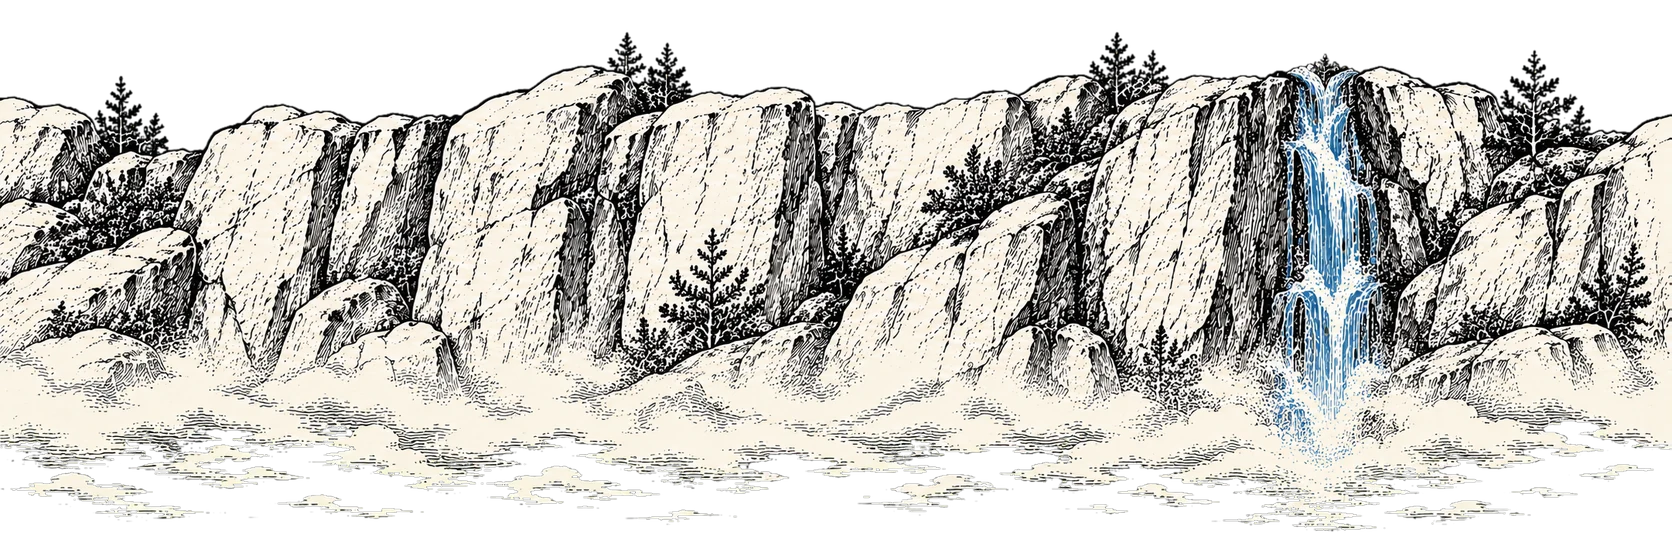
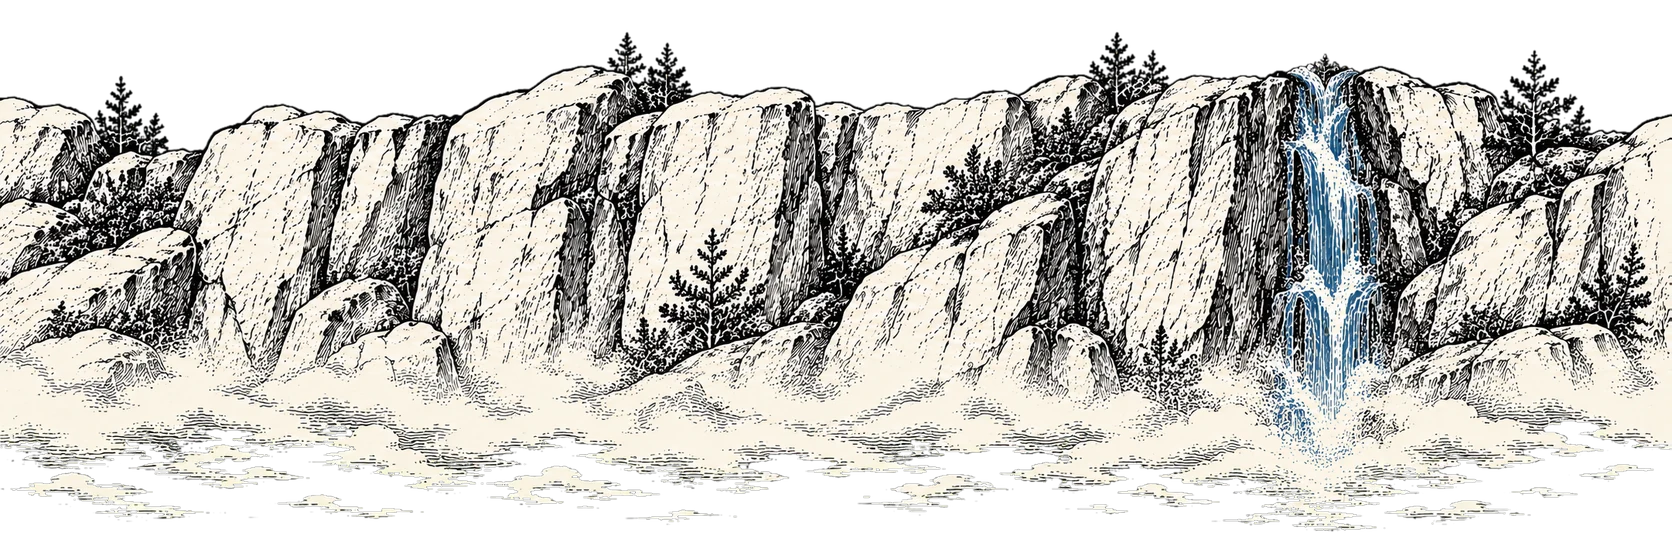
АЯРА: правки второй комиссии

Changed region(s): [[0.7464, 0.1221, 0.8397, 0.763]]

diff --git a/js/main.js b/js/main.js
@@ -37,7 +37,7 @@ window.GI_BRAND = {
 
   /* ---------- путь в гору: кадры друг над другом, камера поднимается по прокрутке ---------- */
   // мир в долях ширины кадра: x 0..1 слева направо, y снизу вверх. Кадры снизу вверх, на стыках облака.
-  var FH = 941 / 1672, GAP = 0.2;
+  var FH = 941 / 1672, GAP = 0.28;
   var FRAMES = [2, 4, 3, 5, 6].map(function (n, i) { return { n: n, y: i * (FH + GAP) }; });   // y — низ кадра
   var SKY = 0.75;                                       // чистое небо над источником — там финал
   var TH = FRAMES.length * FH + (FRAMES.length - 1) * GAP + SKY;
@@ -45,7 +45,8 @@ window.GI_BRAND = {
   // над источником — облако, за ним небо с финалом. par — насколько быстрее горы едет при подъёме (ближе к камере)
   var SEAMS = ["seam-1", "seam-2", "seam-3", "seam-4"];
   var CLOUDS = FRAMES.slice(1).map(function (f, i) {
-    return { y: f.y - GAP / 2, w: 1.12, h: 1.12 / 3 * 0.9, src: SEAMS[i], par: i === 1 ? 0.12 : 0.05, flow: i === 3 };
+    var h = 1.12 / 3 * 0.9;
+    return { y: f.y - GAP + h / 2 - 0.01, w: 1.12, h: h, src: SEAMS[i], par: i === 1 ? 0.12 : 0.05, flow: i === 3, dx: i === 3 ? -0.025 : 0 };   // водопад — под сток источника
   });
   CLOUDS.push({ y: FRAMES[FRAMES.length - 1].y + FH + 0.04, w: 1.24, h: 1.24 / 3 * 0.8, src: "cloud-2", par: 0.18, flip: true });   // вход в небо
   // остановки: f — кадр, x, y — точка кадра в центре экрана (доли, y сверху), h — сколько высоты мира в кадре;
@@ -62,13 +63,13 @@ window.GI_BRAND = {
   var KEYS_PHONE = [
     { f: 0, x: 0.55, y: 0.36, h: 0.62, k: 0 },
     { f: 0, x: 0.58, y: 0.42, h: 0.46, k: 1 },
-    { f: 1, x: 0.63, y: 0.45, h: 0.5, k: 2 },
+    { f: 1, x: 0.5, y: 0.45, h: 0.62, k: 2 },
     { f: 2, x: 0.6, y: 0.42, h: 0.58, k: 3 },
-    { f: 3, x: 0.55, y: 0.55, h: 0.52, k: 4 },
+    { f: 3, x: 0.35, y: 0.62, h: 0.6, k: 4 },
     { f: 4, x: 0.38, y: 0.6, h: 0.52, k: 5 },
     { sky: 1, k: 6 }
   ];
-  var STEP = 1.3;                                       // экранов прокрутки между остановками
+  var STEP = [1.05, 1.1, 1.25, 1.6, 1.15, 1.0];         // экранов прокрутки на участок между остановками (глоток — дольше)
   var U = 1000;                                         // px на единицу мира в DOM-слое (дальше масштабирует transform)
   var tower = document.querySelector(".tower");
   var stick = tower.querySelector(".tower__stick");
@@ -94,7 +95,7 @@ window.GI_BRAND = {
     var im = document.createElement("img");
     im.className = "tower__cloud";
     im.alt = ""; im.decoding = "async"; c.img = im; c.url = "assets/" + c.src + ".webp"; c.cy = c.y;
-    im.style.cssText = "left:" + (0.5 - c.w / 2) * U + "px;top:" + top(c.y + c.h / 2) + "px;width:" + c.w * U + "px;height:" + c.h * U + "px" + (c.flip ? ";transform:scaleX(-1)" : "");
+    im.style.cssText = "left:" + (0.5 + (c.dx || 0) - c.w / 2) * U + "px;top:" + top(c.y + c.h / 2) + "px;width:" + c.w * U + "px;height:" + c.h * U + "px" + (c.flip ? ";transform:scaleX(-1)" : "");
     worlds[0].appendChild(im);
   });
   for (var wi = 0; wi < worlds.length; wi++) { worlds[wi].style.width = U + "px"; worlds[wi].style.height = TH * U + "px"; }
@@ -105,7 +106,10 @@ window.GI_BRAND = {
   sb.style.setProperty("--bot-h", bp[2] * FH / TH);
 
   // картинка DOM-мира подгружается, когда камера в полутора кадрах от неё
-  function lazyImg(o) { if (!o.img.src && Math.abs(o.cy - cam.y) < 1.6) o.img.src = o.src || o.url; }
+  function lazyImg(o) {
+    if (o.img.src || window.GI_TOWER.ext || Math.abs(o.cy - cam.y) > 1.6) return;
+    o.img.src = o.url || o.src;
+  }
 
   // Катмулл — Ром по точкам с равным шагом: через каждую остановку камера проходит плавно, без излома
   function cr(a, b, c, d, t) {
@@ -122,9 +126,18 @@ window.GI_BRAND = {
     return { x: cr(a.x, b.x, c.x, d.x, t), y: cr(a.y, b.y, c.y, d.y, t), h: cr(a.h, b.h, c.h, d.h, t) };
   }
 
+  // доля прокрутки 0..1 -> место в «остановках» 0..n-1 с учётом разной длины участков (STEP)
+  function toStop(p, n) {
+    var st = STEP.slice(0, n - 1), total = st.reduce(function (a, b) { return a + b; }, 0), d = p * total;
+    for (var i = 0; i < st.length; i++) { if (d <= st[i]) return i + d / st[i]; d -= st[i]; }
+    return n - 1;
+  }
+
   function layout() {
     var n = (narrow.matches ? KEYS_PHONE : KEYS).length;
-    tower.style.height = "calc(100svh + " + ((n - 1) * STEP * 100) + "svh)";
+    var sum = STEP.slice(0, n - 1).reduce(function (a, b) { return a + b; }, 0) * 100;
+    tower.style.height = "calc(100svh + " + sum + "svh)";
+    tower.style.height = "calc(100dvh + " + sum + "dvh)";
     // врезки: картинка кадра крупно, нужная точка — в центре рамки
     insets.forEach(function (el) {
       var at = el.getAttribute("data-at").split(",").map(Number), i = el.firstChild;
@@ -142,7 +155,7 @@ window.GI_BRAND = {
     if (!W || !H) return cam;                           // ещё не разложено
     var r = tower.getBoundingClientRect();
     var p = clamp(-r.top / Math.max(1, r.height - H), 0, 1);
-    var f = p * (n - 1);
+    var f = toStop(p, n);
     var g = target(keys, f);
     var dt = Math.min(0.1, Math.max(0, (now - last) / 1000)); last = now;
     var k = reduce || !dt ? 1 : 1 - Math.exp(-dt * 7);  // инерция: камера догоняет прокрутку мягко
@@ -159,7 +172,7 @@ window.GI_BRAND = {
     for (var i = 0; i < worlds.length; i++) worlds[i].style.transform = tf;
     FRAMES.forEach(lazyImg); CLOUDS.forEach(lazyImg);
     // подписи и врезки: видны те, у чьей остановки сейчас камера
-    var near = Math.round(f), on = Math.abs(f - near) < 0.34 ? keys[near].k : -1;
+    var near = Math.round(f), on = Math.abs(f - near) < (keys[near].k === 6 ? 0.6 : 0.34) ? keys[near].k : -1;
     if (on !== shown) {
       shown = on;
       caps.forEach(function (c) {
@@ -230,5 +243,6 @@ window.GI_BRAND = {
   narrow.addEventListener ? narrow.addEventListener("change", layout) : narrow.addListener(layout);
   window.addEventListener("resize", layout);
   if (bar) window.addEventListener("scroll", topbar, { passive: true });
+  if (bar) document.addEventListener("focusin", function () { bar.classList.remove("is-hidden"); });
   requestAnimationFrame(loop);
 })();

diff --git a/css/style.css b/css/style.css
@@ -59,7 +59,8 @@ a{color:inherit}
 .hero.is-out{opacity:0;transform:translateY(-28px);pointer-events:none;visibility:hidden;transition:opacity .6s var(--ease),transform .8s var(--ease),visibility 0s .8s}
 .scroll-hint.is-out{opacity:0;pointer-events:none;visibility:hidden;transition:opacity .6s var(--ease),visibility 0s .6s}
 html:not(.js) .tower{height:auto}
-html:not(.js) .tower__stick{position:relative}
+html:not(.js) .tower__stick{position:relative;height:auto;overflow:visible}
+html:not(.js) .inset,html:not(.js) .tower__world,html:not(.js) .tower__live{display:none}
 
 /* врезка крупным планом: рамка тушью, выезжает у остановки и медленно наезжает */
 .inset{position:absolute;z-index:3;right:calc(var(--gut) + 8px);bottom:clamp(40px,9cqh,96px);width:clamp(180px,22cqw,340px);aspect-ratio:4/3;overflow:hidden;background:var(--paper);border:3px solid var(--ink);box-shadow:0 0 0 6px var(--paper),0 0 0 7.5px var(--ink);opacity:0;transform:translateY(30px) rotate(1.2deg);clip-path:inset(0 0 100% 0);transition:opacity .7s var(--ease),transform 1s var(--ease),clip-path 1s var(--ease)}
@@ -107,10 +108,10 @@ html:not(.js) .tower__stick{position:relative}
 /* на уступе сцены 6: координаты в долях кадра (подогнаны по scene-06.webp) */
 .scene__bottle{position:absolute;--bh:calc(var(--bot-h,.36) * 100%);height:calc(var(--bot-h,.36) * 100%);width:auto;aspect-ratio:9/14;left:calc(var(--bot-x,.33) * 100%);top:calc(var(--bot-y,.78) * 100%);transform:translate(-50%,-100%);container-type:inline-size}
 /* тень касания: плотная короткая тень ровно под дном */
-.scene__bottle::after{content:"";position:absolute;z-index:-1;left:6%;right:-4%;bottom:3.4%;height:3%;border-radius:50%;background:var(--ink);opacity:.32;filter:blur(2px)}
+.scene__bottle::after{content:"";position:absolute;z-index:-1;left:-4%;right:-22%;bottom:2.6%;height:4.2%;border-radius:50%;background:repeating-linear-gradient(100deg,var(--ink) 0 1.2px,transparent 1.2px 4px);opacity:.55;-webkit-mask:radial-gradient(closest-side,#000 55%,transparent);mask:radial-gradient(closest-side,#000 55%,transparent)}
 
 /* ---------- финал ---------- */
-.final{position:absolute;inset:0;z-index:3;background:linear-gradient(var(--paper) 55%,rgba(244,240,230,0));display:grid;place-items:center;padding:clamp(56px,6vh,80px) var(--gut);overflow:hidden}
+.final{position:absolute;inset:0;z-index:3;background:linear-gradient(var(--paper) 55%,rgba(244,240,230,0));display:grid;place-items:center;padding:84px var(--gut) clamp(40px,6vh,80px);overflow:hidden}
 /* финал проявляется, когда камера поднялась в небо над источником (js/main.js, data-key=6) */
 .js .final{opacity:0;pointer-events:none;transition:opacity .9s var(--ease)}
 .js .final.is-in{opacity:1;pointer-events:auto}
@@ -119,7 +120,7 @@ html:not(.js) .final{position:relative;background:var(--paper)}
 html:not(.js) .tower .cap,html:not(.js) .inset{position:static;margin:16px var(--gut)}
 html:not(.js) .hero{position:relative;left:auto;top:auto;margin:84px var(--gut) 16px}
 .final__inner{display:grid;grid-template-columns:auto minmax(0,38rem);gap:clamp(28px,6vw,110px);align-items:center;max-width:72rem}
-.final__bottle{--bh:min(84svh,760px)}
+.final__bottle{--bh:min(68svh,700px)}
 .final__sub{margin:0 0 1.2rem;font:700 .76rem/1.4 var(--sans);letter-spacing:.18em;text-transform:uppercase;color:var(--ink);opacity:.72}
 .final__title{margin:0 0 2rem;font:700 clamp(2rem,3.6vw,3.6rem)/1.02 var(--serif);text-wrap:balance}
 .benefits{list-style:none;margin:2.4rem 0 0;padding:1.1rem 0 0;border-top:1px solid var(--ink);display:flex;flex-wrap:wrap;gap:.4rem 0;font:700 .72rem/1.4 var(--sans);letter-spacing:.16em;text-transform:uppercase}
@@ -130,11 +131,11 @@ html:not(.js) .hero{position:relative;left:auto;top:auto;margin:84px var(--gut) 
 .js .final.is-in .final__copy{transition-delay:.18s}
 
 /* ---------- подвал (как в v1: тёмный) ---------- */
-.footer{position:relative;z-index:2;background:var(--ink);color:var(--paper);padding:56px var(--gut) 64px;text-align:center;font-size:.88rem}
+.footer{position:relative;z-index:2;background:var(--paper);color:var(--ink);padding:40px var(--gut) 48px;text-align:center;font-size:.82rem;border-top:1px dashed var(--ink)}
 .footer p{margin:.4rem 0}
 .footer__brand{font:700 1.4rem/1 var(--serif);letter-spacing:.22em;margin-bottom:1rem!important}
 .footer__legal{opacity:.8}
-.footer :focus-visible{outline-color:var(--paper)}
+.footer :focus-visible{outline-color:var(--ink)}
 
 /* ---------- телефон ---------- */
 @media (max-width:700px){
@@ -142,7 +143,7 @@ html:not(.js) .hero{position:relative;left:auto;top:auto;margin:84px var(--gut) 
   .topbar__brand{font-size:.74rem;letter-spacing:.12em;padding:6px 9px 6px 7px;white-space:nowrap}
   .topbar__brand .mark{width:18px;height:18px}
   .topbar .btn--small{font-size:.68rem;padding:.9em .8em;letter-spacing:.06em;white-space:nowrap;min-height:44px;display:inline-flex;align-items:center}
-  .hero{left:20px;right:20px;top:70px;max-width:none;box-shadow:0 0 0 4px var(--paper),0 0 0 5px var(--ink);padding:18px 18px 22px}
+  .hero{left:20px;right:20px;top:auto;bottom:24px;max-width:none;box-shadow:0 0 0 4px var(--paper),0 0 0 5px var(--ink);padding:18px 18px 22px}
   .hero__title{font-size:clamp(2rem,9vw,2.6rem);margin-bottom:1.1rem}
   .br-m{display:inline}
   .br-d{display:none}

diff --git a/index.html b/index.html
@@ -4,12 +4,12 @@
 <meta charset="utf-8">
 <meta name="viewport" content="width=device-width, initial-scale=1, viewport-fit=cover">
 <meta name="robots" content="noindex, nofollow">
-<title>АЯРА — вода, с которой легче в пути</title>
+<title>АЯРА — вода из горной легенды</title>
 <meta name="description" content="Питьевая вода «АЯРА» из горного источника Приэльбрусья. Легенда — в каждой бутылке.">
 <meta name="theme-color" content="#f4f0e6">
 <meta property="og:type" content="website">
 <meta property="og:locale" content="ru_RU">
-<meta property="og:title" content="АЯРА — вода, с которой легче в пути">
+<meta property="og:title" content="АЯРА — вода из горной легенды">
 <meta property="og:description" content="Питьевая вода «АЯРА» из горного источника Приэльбрусья.">
 <meta property="og:url" content="https://armanved-source.github.io/azau-demo/">
 <meta property="og:image" content="https://armanved-source.github.io/azau-demo/assets/scene-02.webp">
@@ -26,7 +26,7 @@
 
 <header class="topbar">
   <a class="topbar__brand" href="#top" aria-label="В начало"><svg class="mark" viewBox="0 0 32 32" aria-hidden="true"><path d="M3 27 L13 9 L18 17 L21 12 L29 27Z" fill="#1d1d1d"/><path d="M16 21 q-3 4 0 6 q3-2 0-6Z" fill="#3f6f8f"/></svg><span data-brand>АЯРА</span></a>
-  <a class="btn btn--small" href="#final">ПОПРОБОВАТЬ ЛЁГКОСТЬ</a>
+  <a class="btn btn--small" href="#final">ПОПРОБОВАТЬ АЯРА</a>
 </header>
 
 <main class="story">
@@ -44,14 +44,15 @@
           <div class="bottle__mark"><b>АЯРА</b></div>
         </div>
       </div>
+      <noscript><img src="assets/scene-02.webp" alt="" style="width:100%;height:auto"></noscript>
       <p class="sr">История в картинках снизу вверх: старик тяжело поднимается в гору с посохом; навстречу ему спускается горец;
         у источника в скале старик пьёт из ладоней; его посох с красной тряпицей остаётся на камне, а он, помолодевший,
         уходит вниз налегке; наверху у источника стоит бутылка воды «АЯРА».</p>
 
       <div class="hero">
         <p class="hero__kicker"><span data-product>Питьевая вода «АЯРА»</span> из&nbsp;горного источника</p>
-        <h1 id="hero-title" class="hero__title">ВОДА, С&nbsp;КОТОРОЙ<br> <span class="accent">ЛЕГЧЕ В&nbsp;ПУТИ</span></h1>
-        <a class="btn" href="#final">ПОПРОБОВАТЬ ЛЁГКОСТЬ</a>
+        <h1 id="hero-title" class="hero__title">ВОДА ИЗ&nbsp;ТОЙ<br> <span class="accent">САМОЙ ЛЕГЕНДЫ</span></h1>
+        <a class="btn" href="#final">ПОПРОБОВАТЬ АЯРА</a>
       </div>
       <a class="scroll-hint" href="#final"><span>Листай вниз</span><svg viewBox="0 0 24 40" aria-hidden="true"><path d="M12 2 V34 M3 25 L12 36 L21 25" fill="none" stroke="currentColor" stroke-width="2.5" stroke-linecap="square"/></svg></a>
 
@@ -79,10 +80,10 @@
           <div class="final__copy">
             <p class="final__sub">Родник Приэльбрусья</p>
             <h2 id="final-title" class="final__title">Легенда&nbsp;— в&nbsp;каждой бутылке. Вода&nbsp;— из&nbsp;того самого источника.</h2>
-            <a class="btn btn--big" href="#final">ПОПРОБОВАТЬ ЛЁГКОСТЬ</a>
+            <a class="btn btn--big" href="#final">ПОПРОБОВАТЬ АЯРА</a>
             <ul class="benefits">
               <li><svg viewBox="0 0 40 40" aria-hidden="true"><path d="M3 34 L16 10 L23 21 L27 15 L37 34Z" fill="none" stroke="currentColor" stroke-width="2.4" stroke-linejoin="round"/><path d="M16 10 L13 17 M27 15 L25 20" stroke="currentColor" stroke-width="2"/></svg>Из горного источника</li>
-              <li><svg viewBox="0 0 40 40" aria-hidden="true"><path d="M20 4 C 12 16 8 22 8 27 a12 12 0 0 0 24 0 C32 22 28 16 20 4Z" fill="#3f6f8f"/><path d="M14 27 q1 5 6 6" stroke="#f4f0e6" stroke-width="2.5" fill="none" stroke-linecap="round"/></svg>Чистый вкус</li>
+              <li><svg viewBox="0 0 40 40" aria-hidden="true"><path d="M20 4 C 12 16 8 22 8 27 a12 12 0 0 0 24 0 C32 22 28 16 20 4Z" fill="#3f6f8f"/><path d="M14 27 q1 5 6 6" stroke="#f4f0e6" stroke-width="2.5" fill="none" stroke-linecap="round"/></svg>Приэльбрусье</li>
               <li><svg viewBox="0 0 40 40" aria-hidden="true"><path d="M4 34 C14 30 18 22 22 16 S 32 6 37 5" stroke="currentColor" stroke-width="2.6" fill="none" stroke-linecap="round" stroke-dasharray="6 5"/><circle cx="35" cy="7" r="4" fill="#c82924"/></svg>Мягкий вкус</li>
             </ul>
           </div>

diff --git a/js/live.js b/js/live.js
@@ -211,6 +211,7 @@
       "float n2(vec2 p){ vec2 i = floor(p), f = fract(p); f = f*f*(3.0-2.0*f);",
       "  return mix(mix(h(i), h(i+vec2(1,0)), f.x), mix(h(i+vec2(0,1)), h(i+vec2(1,1)), f.x), f.y); }",
       "void main(){ vec4 c = texture2D(tMap, vS);",
+      "  c.a *= smoothstep(0.0, 0.07, vS.y) * smoothstep(1.0, 0.93, vS.y) * smoothstep(0.0, 0.03, vS.x) * smoothstep(1.0, 0.97, vS.x);",
       "  if (uFlow > 0.5) {",
       "    float w = smoothstep(0.08, 0.2, c.b - c.r) * c.a;",
       "    float s = n2(vec2(vS.x * 260.0, vS.y * 22.0 + uTime * 3.5));",
@@ -224,7 +225,7 @@
         transparent: true, depthTest: false, vertexShader: VS, fragmentShader: SEAM
       }));
       m.scale.set(c.flip ? -c.w : c.w, c.h, 1);
-      m.position.set(0.5, c.y, 0.5);
+      m.position.set(0.5 + (c.dx || 0), c.y, 0.5);
       m.renderOrder = 2; m.visible = false;
       scene.add(m);
       return { c: c, m: m, ready: false };
@@ -274,7 +275,8 @@
         .then(function (bm) { queue.push([cb, bm]); });
     }
     // Safari и старый Firefox не умеют параметры createImageBitmap (кадр лёг бы вверх ногами) — им обычная картинка
-    var BITMAP = !!window.createImageBitmap && !/^((?!chrome|android).)*safari/i.test(navigator.userAgent);
+    var ff = navigator.userAgent.match(/Firefox\/(\d+)/);
+    var BITMAP = !!window.createImageBitmap && !/^((?!chrome|android).)*safari/i.test(navigator.userAgent) && !(ff && +ff[1] < 98);
     function tex(bm) {
       var x = new THREE.Texture(bm);
       x.minFilter = THREE.LinearFilter; x.generateMipmaps = false; x.needsUpdate = true;
@@ -284,14 +286,19 @@
       if (isBm && bm.close) { bm.close(); x.image = { width: bm.width, height: bm.height }; }   // в видеокарте — копию в памяти отпускаем
       return x;
     }
-    function want(it) {
-      if (it.t) return;
+    function want(it, now) {
+      if (it.t || now < (it.retryAt || 0)) return;
       var keys = it.d.fig ? ["plate", "aux", "fig"] : ["plate", "aux"];
+      var gen = it.gen = (it.gen || 0) + 1;
       it.t = {}; it.left = keys.length;
       keys.forEach(function (k) {
         pic(it.d[k], function (bm) {
-          if (!it.t) return;                             // уже отпустили
-          if (!bm) { free(it, true); return; }           // сеть подвела — в следующий раз заново
+          if (it.gen !== gen || !it.t) { if (bm && bm.close) bm.close(); return; }   // ответ отменённой попытки
+          if (!bm) {                                     // сеть подвела — пауза и заново
+            it.fails = (it.fails || 0) + 1; it.retryAt = now + 1000 * Math.min(8, Math.pow(2, it.fails));
+            free(it, true); return;
+          }
+          if (it.t[k]) it.t[k].dispose();
           it.t[k] = tex(bm);
           if (--it.left > 0) return;
           it.u.tPlate.value = it.t.plate; it.u.tAux.value = it.t.aux; it.u.tFig.value = it.t.fig || BLANK;
@@ -302,6 +309,7 @@
     }
     function free(it, force) {                           // далёкий кадр — отдаём видеопамять
       if (!it.t || (it.left > 0 && !force)) return;
+      it.gen = (it.gen || 0) + 1;                        // ответы, что ещё в пути, — уже не к этому кадру
       ["plate", "aux", "fig"].forEach(function (k) { if (it.t[k]) it.t[k].dispose(); });
       it.t = null; it.ready = false;
       if (it.f.img) it.f.img.style.visibility = "";
@@ -359,7 +367,7 @@
       var any = false;
       frames.forEach(function (it) {
         var d = Math.abs(it.f.y + FH / 2 - cam.y);       // от центра кадра до камеры
-        if (d < FH + 0.3) want(it); else if (d > 2 * (FH + 0.2)) free(it);   // держим текущий кадр и соседей
+        if (d < FH + 0.3) want(it, now); else if (d > 2 * (FH + 0.2)) free(it);   // держим текущий кадр и соседей
         var vis = it.ready && d < FH + cam.h / 2;
         it.bg.visible = vis;
         if (it.fg) it.fg.visible = vis;
